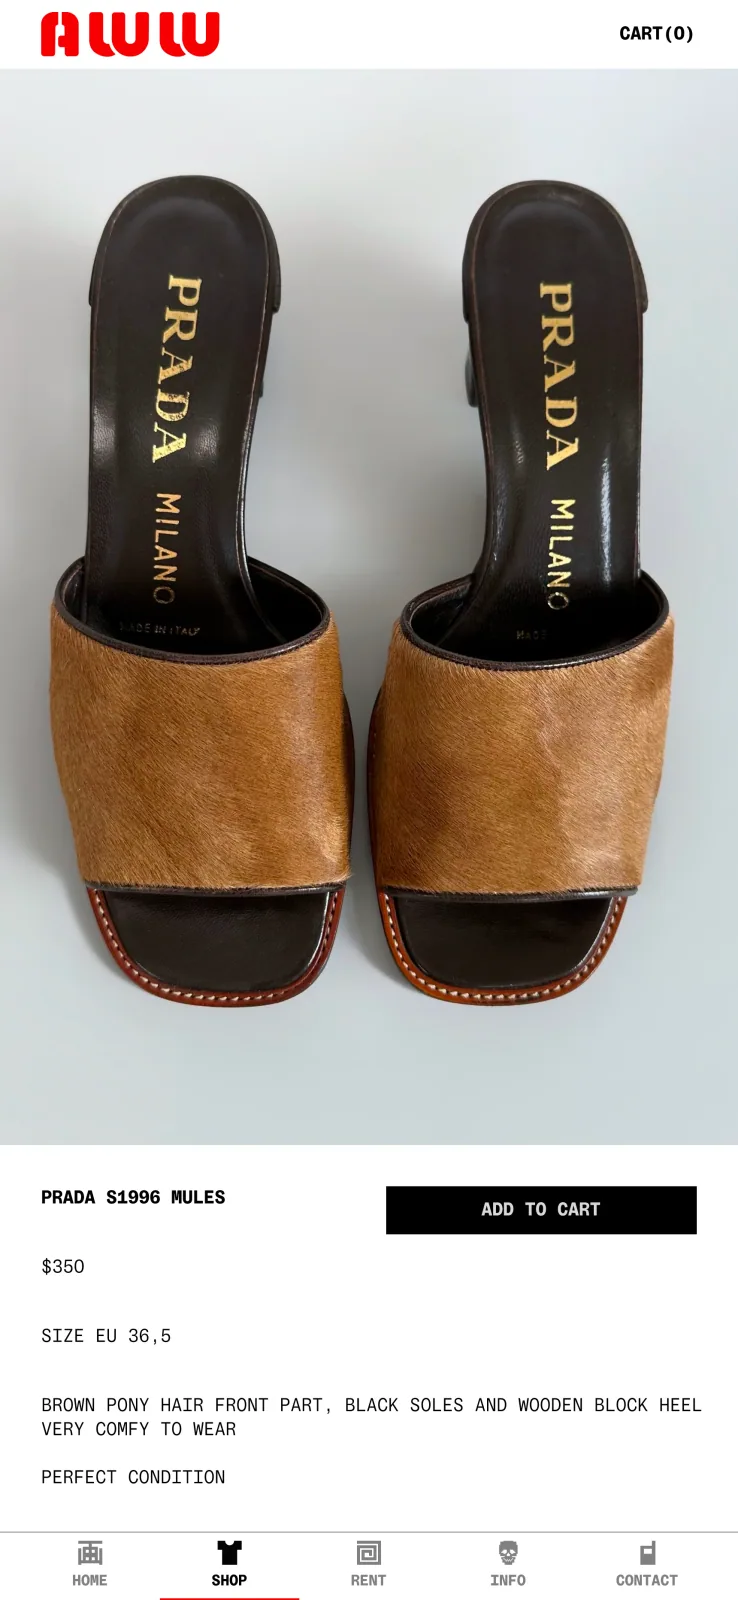
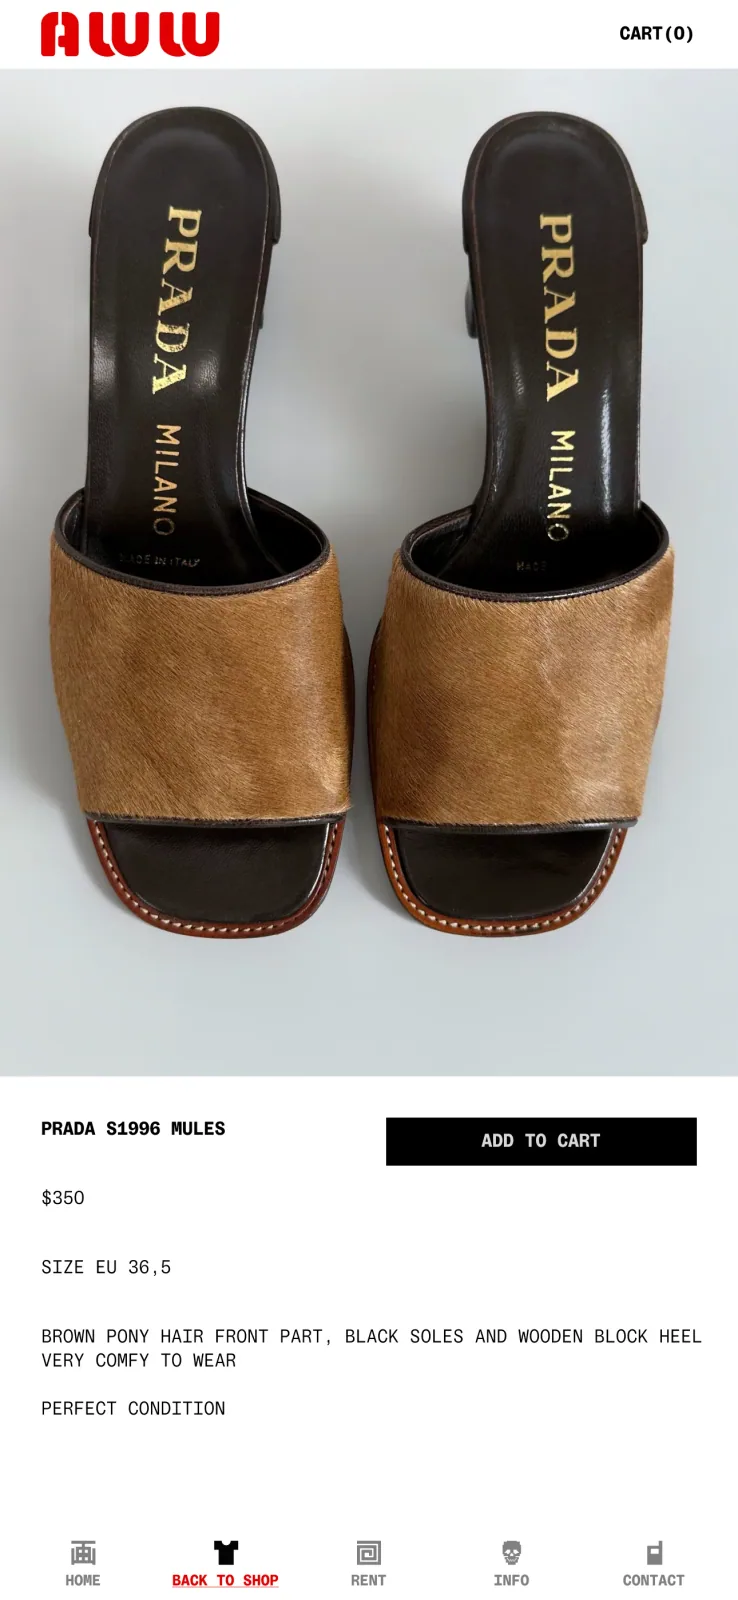
AWW90s: the full shop journey, 14 plates (entry, home, shop + filters, product x3, cart, checkout, breakpoints, editorial)

diff --git a/assets/works.js b/assets/works.js
@@ -805,10 +805,42 @@ window.WORKS = {
   },
   {
    "p": "aww90s",
+   "src": "aww90s-16.webp",
+   "w": 5184,
+   "h": 3351,
+   "alt": "The AWW entry screen: hands lighting a photo-booth strip with a lighter, STORE and WORKS set small in red.",
+   "sm": 1
+  },
+  {
+   "p": "aww90s",
+   "src": "aww90s-11.webp",
+   "w": 5184,
+   "h": 3351,
+   "alt": "The AWW home page on desktop: three panels of a gloved hand holding a lit stick reading vintage, SHOP THE LATEST SELECTION OF CLOTHING, the nav across the top.",
+   "sm": 1
+  },
+  {
+   "p": "aww90s",
    "src": "aww90s-04.webp",
    "w": 1290,
    "h": 2796,
    "alt": "The AWW home page on a phone: the red AWW mark, a gloved hand holding a lit stick reading vintage, SHOP THE LATEST SELECTION OF CLOTHING, and the icon bar along the bottom.",
+   "sm": 1
+  },
+  {
+   "p": "aww90s",
+   "src": "aww90s-12.webp",
+   "w": 5220,
+   "h": 3351,
+   "alt": "The shop on desktop: brand, category and size filters in a mono column on the left, product images with name and price, sort options on the right.",
+   "sm": 1
+  },
+  {
+   "p": "aww90s",
+   "src": "aww90s-13.webp",
+   "w": 1290,
+   "h": 2796,
+   "alt": "The filter panel on a phone: search, sort, designers, categories and sizes as outlined mono buttons, with Reset and Apply.",
    "sm": 1
   },
   {
@@ -822,9 +854,9 @@ window.WORKS = {
   {
    "p": "aww90s",
    "src": "aww90s-06.webp",
-   "w": 1720,
-   "h": 3728,
-   "alt": "A product page on a phone: Prada S1996 mules from above, then name, price, size, description and an Add to cart button, with the icon bar below.",
+   "w": 1290,
+   "h": 2796,
+   "alt": "A product page on a phone: Prada S1996 mules from above, then name, price, size, description and an Add to cart button, with Back to shop in the icon bar.",
    "sm": 1
   },
   {
@@ -833,6 +865,22 @@ window.WORKS = {
    "w": 3072,
    "h": 4410,
    "alt": "The same Prada product page on a tablet.",
+   "sm": 1
+  },
+  {
+   "p": "aww90s",
+   "src": "aww90s-14.webp",
+   "w": 1290,
+   "h": 2796,
+   "alt": "The cart on a phone: the Prada mules, price, Delete, totals and Proceed to checkout.",
+   "sm": 1
+  },
+  {
+   "p": "aww90s",
+   "src": "aww90s-15.webp",
+   "w": 1290,
+   "h": 2796,
+   "alt": "Checkout on a phone: Customer info, Address, Payment, Confirmation as steps, the form fields, the order and Proceed to address.",
    "sm": 1
   },
   {

diff --git a/index.html b/index.html
@@ -382,7 +382,7 @@ main { flex: 1; min-height: calc(100lvh - var(--head-h)); }
 <!-- The ?v= changes whenever works.js does, so a cached old copy is never
      paired with a new page (5 Oct: phones kept the old file and the lettering
      did not flip in dark mode). -->
-<script src="assets/works.js?v=2026-10-05d"></script>
+<script src="assets/works.js?v=2026-10-05e"></script>
 <script>
 (() => {
   // A project can be a client (LOTV, RADA) holding several pieces; a plate
